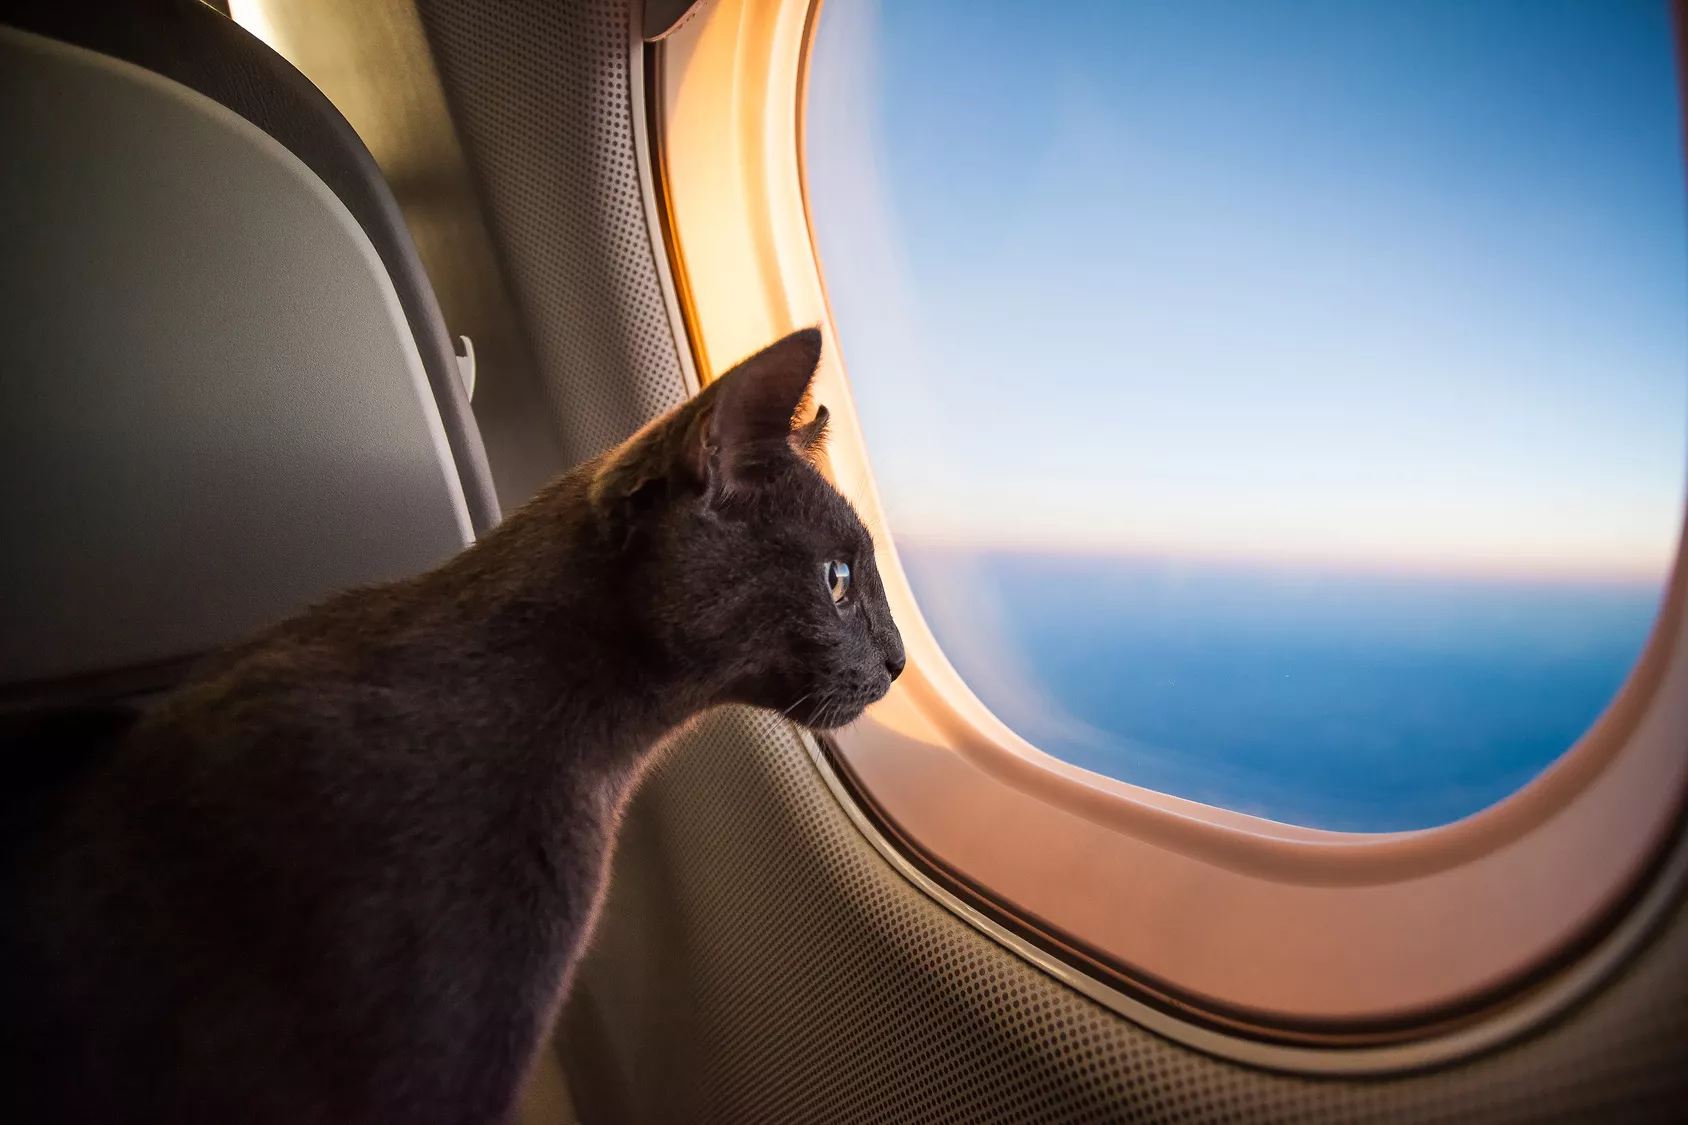
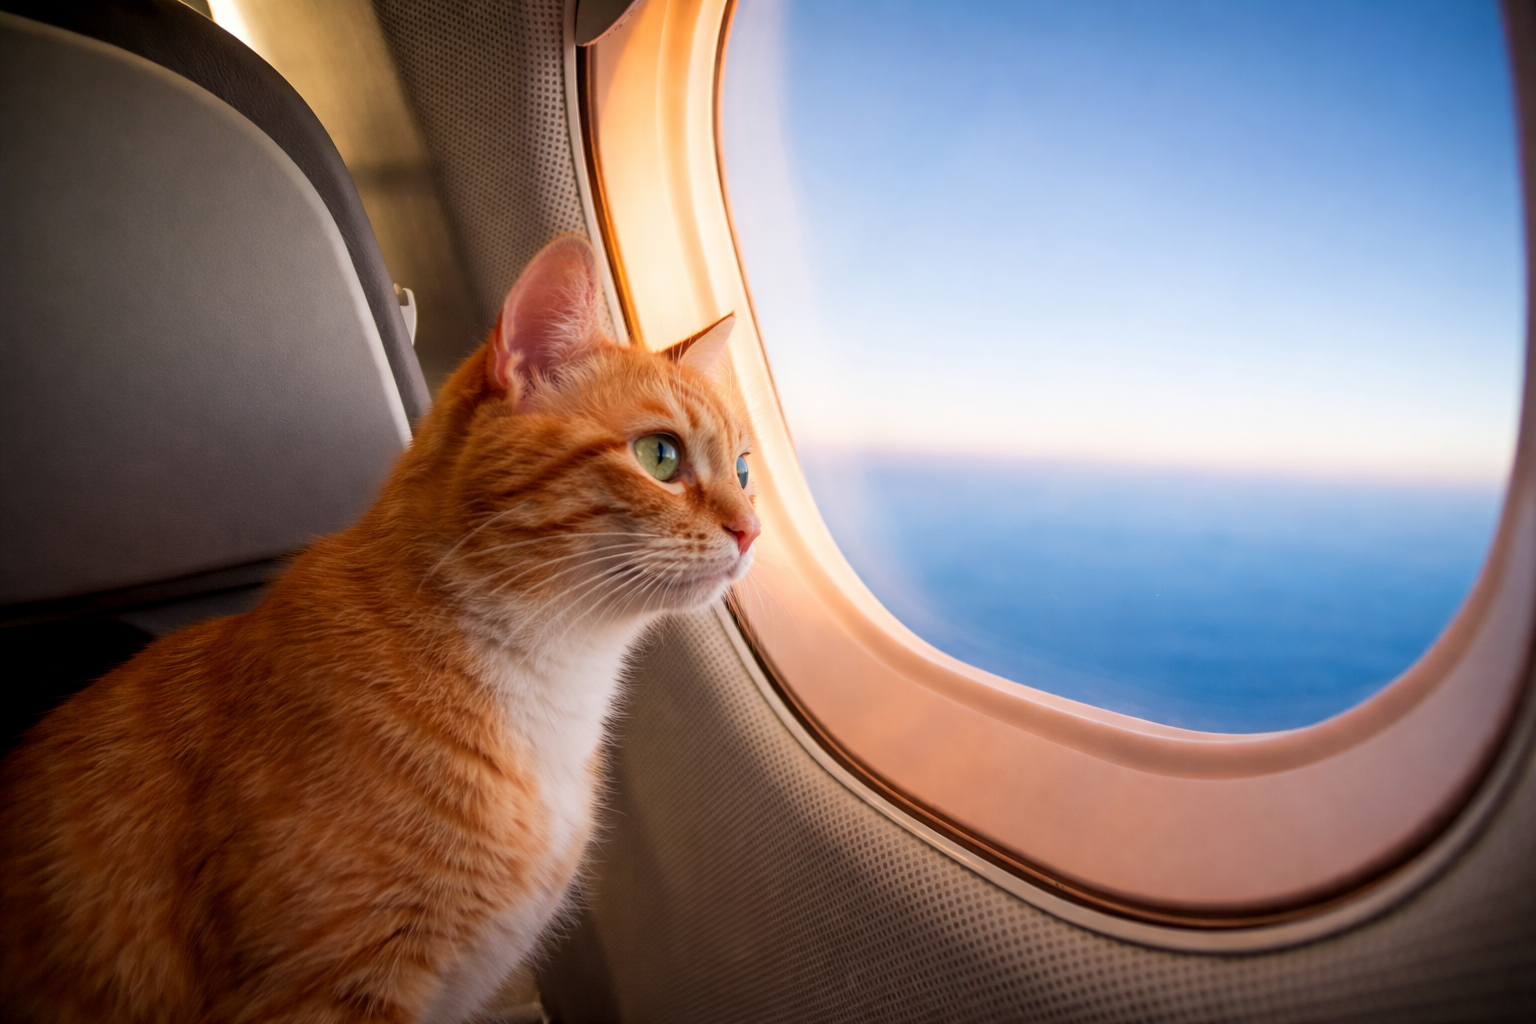
Fix: appManifest deaktivieren (404 _nuxt/builds/meta), hintergrund.png

diff --git a/nuxt.config.ts b/nuxt.config.ts
@@ -1,5 +1,8 @@
 // https://nuxt.com/docs/api/configuration/nuxt-config
 export default defineNuxtConfig({
+  experimental: {
+    appManifest: false,
+  },
   devtools: {
     enabled: true,
     // Deaktiviert den Vue Component Inspector (vite-plugin-vue-inspector), der bei orgs-map.vue einen 500-Fehler verursacht.
